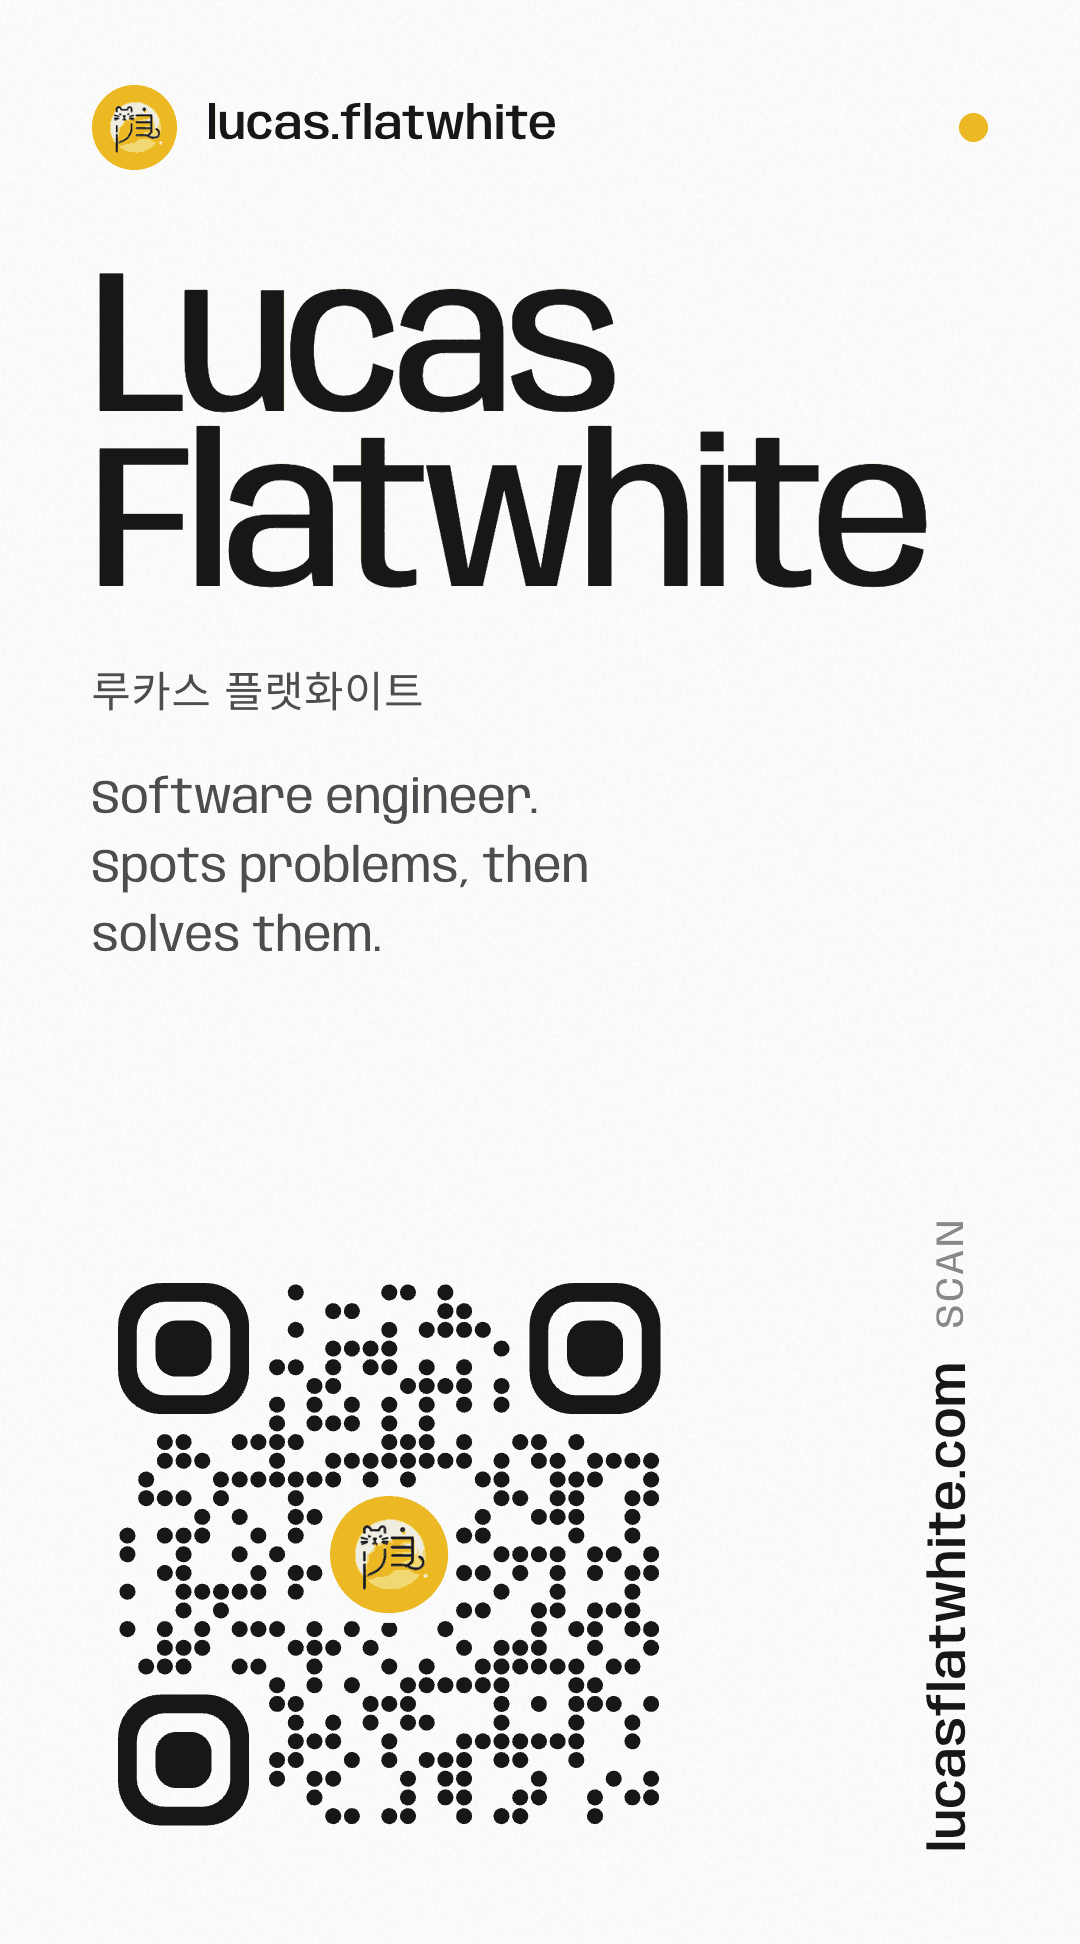
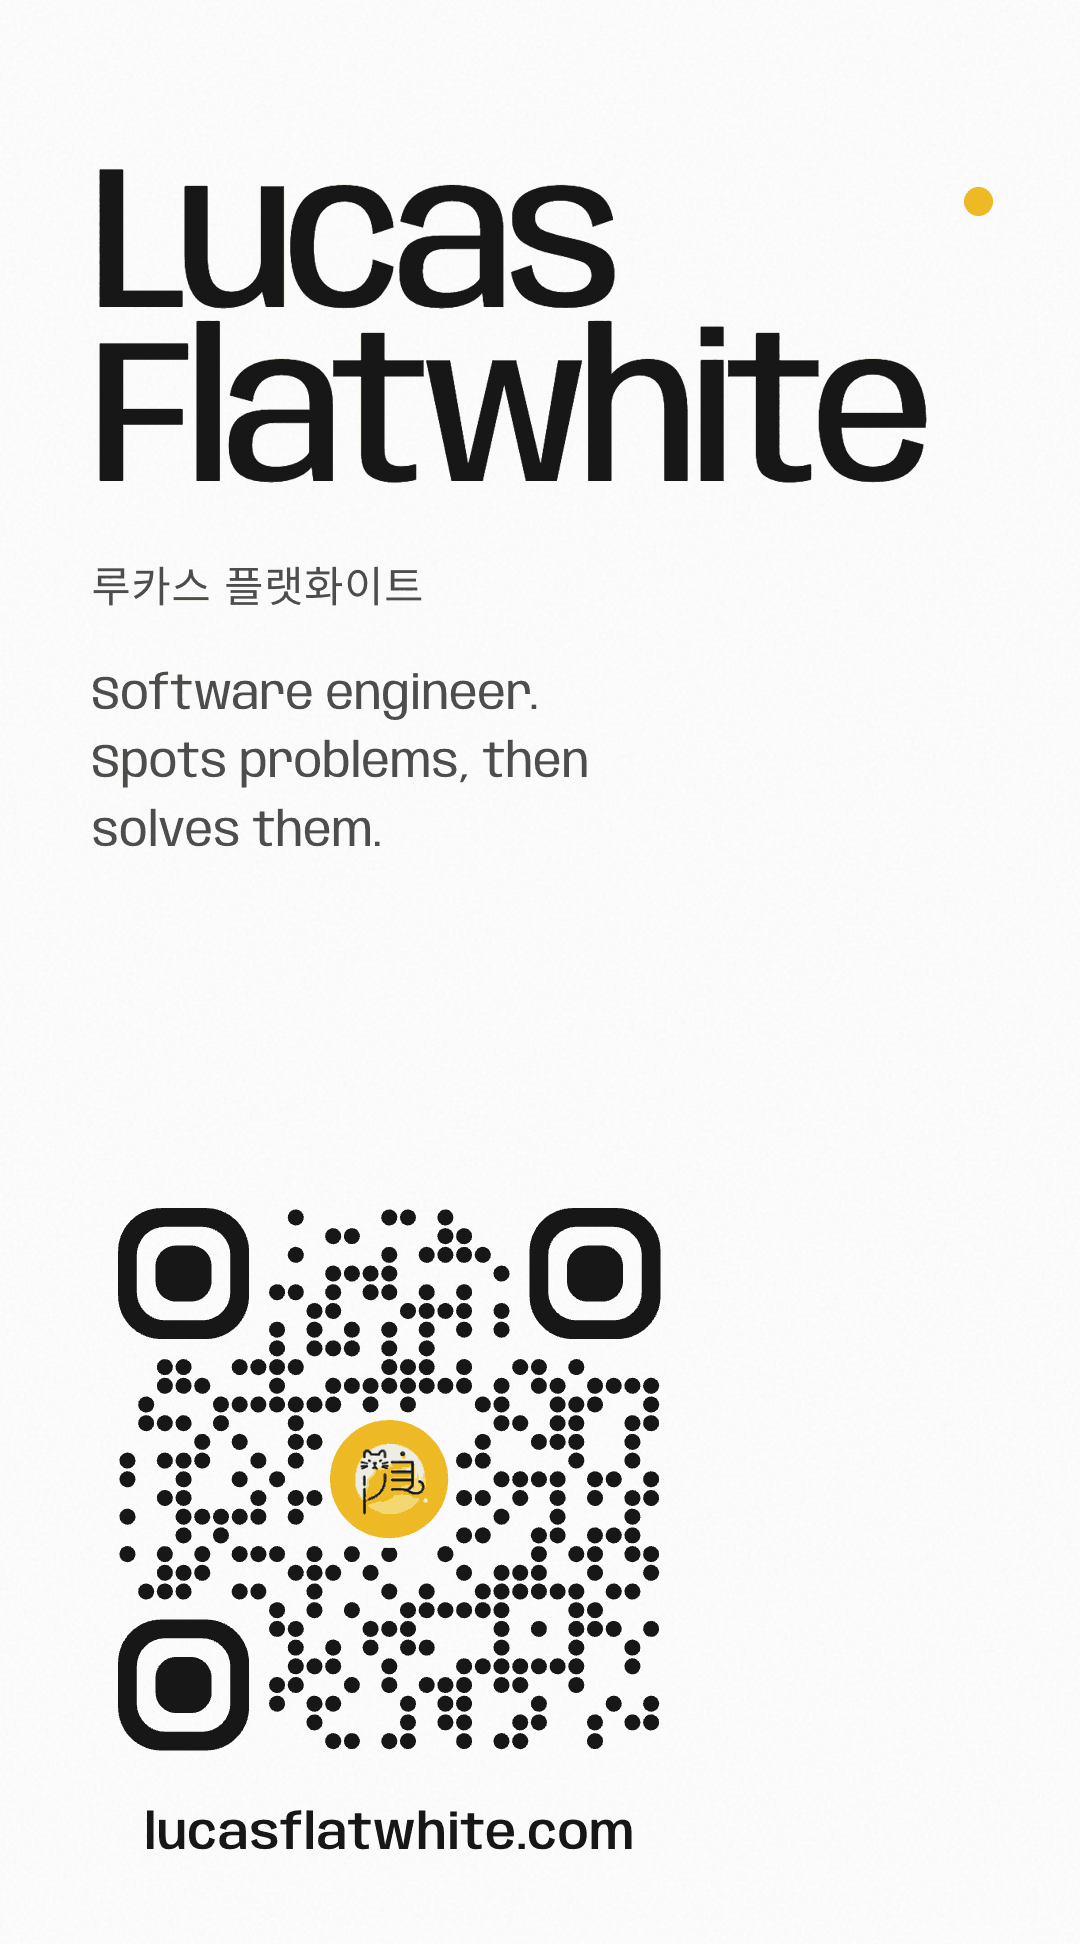
feat: tidy my card and start its focus on Share (#39)
* feat: start my card's focus on Share instead of Close

Claude-Session: https://claude.ai/code/session_01THaPJZvsKWahfbrzWubRkP

* feat: show my face once on the card and lay its address flat under the QR

Claude-Session: https://claude.ai/code/session_01THaPJZvsKWahfbrzWubRkP

---------

diff --git a/src/lib/card-unfold.ts b/src/lib/card-unfold.ts
@@ -6,9 +6,10 @@
  * 2. What the board does not carry over (the QR, the address, the line about me, the yellow
  *    dot) steps back.
  * 3. The intro drops behind the board. A sheet of paper grows from the card to the whole
- *    screen while the board's own handle, name and Korean name travel from where they sat
- *    on the card to their places (FLIP).
- * 4. The rest of the board in view rises in, one piece after another.
+ *    screen while the board's own name and Korean name travel from where they sat on the
+ *    card to their places (FLIP).
+ * 4. The rest of the board in view rises in, one piece after another, starting with my mark
+ *    at the top (the card carries my face only in its QR, so the mark has nothing to fly from).
  *
  * Then the address becomes the homepage's, focus goes to my name, and the board's motion
  * starts (HomeBoard.astro waits for card-intro:done).
@@ -23,13 +24,12 @@ const RISE_AFTER = 420;
 
 /** Card parts and the board elements they become. */
 const TRAVELLERS = [
-  ['handle', '.topbar-mark'],
   ['name', '#name'],
   ['ko', '.name-ko'],
 ] as const;
 
 /** The board pieces that rise in once the paper is down, in reading order. */
-const RISERS = '.topbar-actions, .intro, .name-links > li, .board-photos, .board-cards > li';
+const RISERS = '.topbar-mark, .topbar-actions, .intro, .name-links > li, .board-photos, .board-cards > li';
 
 const wait = (ms: number) => new Promise((resolve) => window.setTimeout(resolve, ms));
 
@@ -104,8 +104,7 @@ export async function unfoldInto(root: HTMLElement, board: HTMLElement): Promise
       return [];
     }
 
-    // The handle travels with the face beside it, as the board's mark does.
-    const first = contentBox(part === 'handle' ? from.parentElement! : from);
+    const first = contentBox(from);
     return [{ to, first, last: contentBox(to), box: to.getBoundingClientRect() }];
   });
   const risers = [...document.querySelectorAll<HTMLElement>(RISERS)].filter((element) => {

diff --git a/src/lib/card.ts b/src/lib/card.ts
@@ -6,6 +6,10 @@
  * While it is open the screen stays awake, so the QR does not dim while someone lines up a
  * camera. The image is fetched as soon as the dialog opens: Safari only shares a file from a
  * tap if the share starts inside that tap, so the click must not wait for a download.
+ *
+ * Focus starts on Share, the thing the sheet is for. Share only shows once the image is in
+ * hand, so on a first open focus waits on Save image and steps over when Share appears,
+ * unless someone has already moved it.
  */
 import { addressActionFor, leaveAddressFor } from './hash-address';
 import { withBase } from './paths';
@@ -24,6 +28,7 @@ export function shareMode(file: File | null, canShare: CanShare | undefined): 's
 
 export function bindCard(dialog: HTMLDialogElement, triggers: Iterable<HTMLElement>): void {
   const share = dialog.querySelector<HTMLButtonElement>('[data-card-share]');
+  const save = dialog.querySelector<HTMLAnchorElement>('[data-card-save]');
   const opener = [...triggers][0];
   let navigatedHere = false;
   let file: File | null = null;
@@ -50,7 +55,12 @@ export function bindCard(dialog: HTMLDialogElement, triggers: Iterable<HTMLEleme
     }
 
     if (share && shareMode(file, navigator.canShare?.bind(navigator)) === 'share') {
+      const waiting = dialog.open && (document.activeElement === save || document.activeElement === dialog);
       share.hidden = false;
+
+      if (waiting) {
+        share.focus();
+      }
     }
   };
 
@@ -85,6 +95,7 @@ export function bindCard(dialog: HTMLDialogElement, triggers: Iterable<HTMLEleme
     }
 
     dialog.showModal();
+    (share && !share.hidden ? share : save)?.focus();
     void prefetch();
     void holdScreen();
   };

diff --git a/tests/business-card.test.ts b/tests/business-card.test.ts
@@ -11,11 +11,10 @@ describe('my business card', () => {
   it('keeps the line about me from the mockup', () => {
     expect(card.role).toBe('Software engineer. Spots problems, then solves them.');
     expect(card.url).toBe('lucasflatwhite.com');
-    expect(card.scan).toBe('Scan');
   });
 
   it('marks every part the intro moves or sets aside', () => {
-    for (const part of ['avatar', 'handle', 'name', 'ko', 'role', 'dot', 'qr', 'url']) {
+    for (const part of ['name', 'ko', 'role', 'dot', 'qr', 'url']) {
       expect(source).toContain(`data-card-part="${part}"`);
     }
   });

diff --git a/tests/card-intro.test.ts b/tests/card-intro.test.ts
@@ -141,7 +141,7 @@ describe('the unfold onto the board', () => {
 
   it('moves the real board pieces with FLIP, not view transitions', () => {
     expect(unfold).toContain('flipFrom(');
-    for (const part of ['handle', 'name', 'ko']) {
+    for (const part of ['name', 'ko']) {
       expect(unfold).toContain(`'${part}'`);
     }
     for (const source of [unfold, read('src/components/CardIntro.astro'), board]) {

diff --git a/src/data/card.ts b/src/data/card.ts
@@ -10,5 +10,4 @@ export const CARD_QR_TEXT = 'HTTPS://LUCASFLATWHITE.COM/HI';
 export const card = {
   role: 'Software engineer. Spots problems, then solves them.',
   url: 'lucasflatwhite.com',
-  scan: 'Scan',
 } as const;
